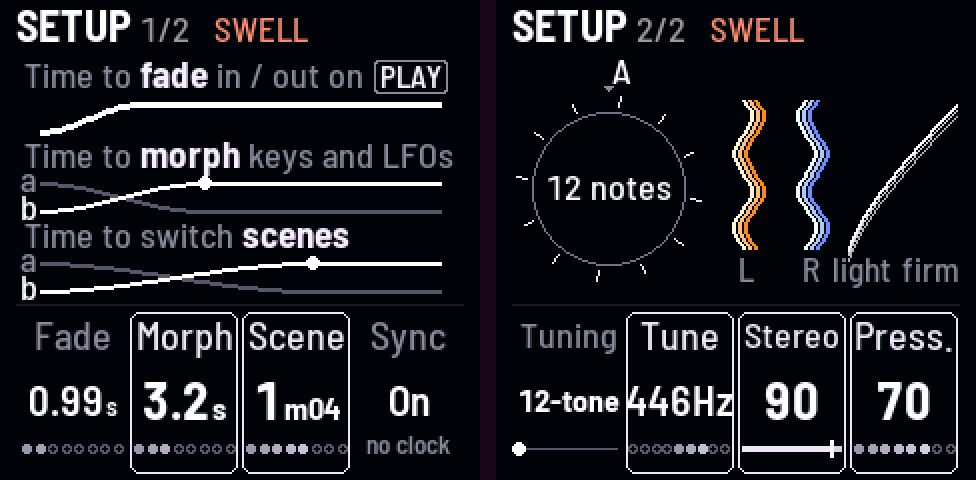
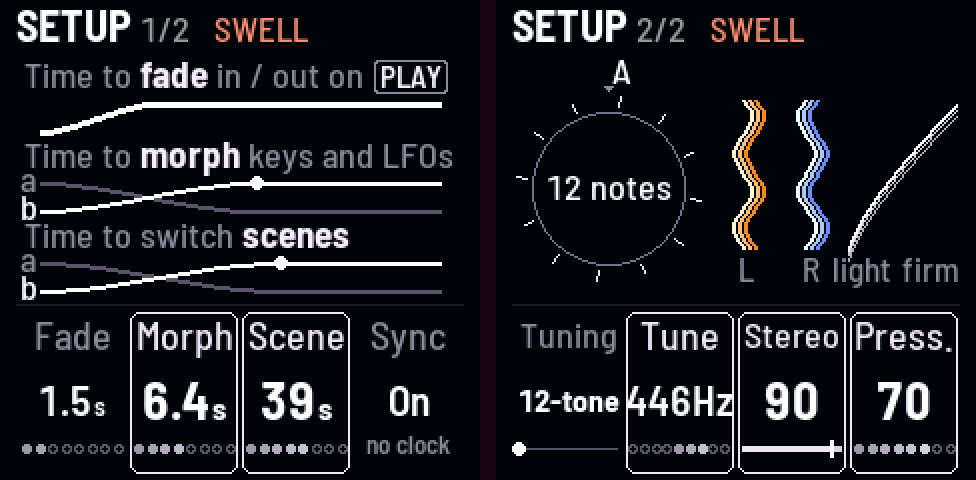
The defaults review (Evan): a new FM-1's Fade 1.5 s, Morph 2 s, Scene time 7.8 s; Pitch glide 0.2 s so Wander's notes slide a little; the flash chip check in its own header with a host test, the newer FM-1s' UC25HQ80 (B36014) and the first ones' Puya (856014)

diff --git a/firmware/src/dsp/drone.c b/firmware/src/dsp/drone.c
@@ -42,13 +42,13 @@ static const dr_param_t PARAMS[DR_NPARAMS] = {
     VOICE_PARAMS(5700, 33, DR_IV_UNISON + 9, 15, 680, 61, DR_LFO_II, DR_LFO_II, -85),  /* II: A3, triangle, partner an octave up */
     {"Cross-mod", 0, DR_XMOD_OUT, 0}, {"X-mod amt", 0, 100, 40}, {"Hard sync", 0, 1, 0}, {"Pitch link", 0, 1, 0},
     {"Link ofs", -2400, 2400, 700}, {"LFO rate", 0, 152, 74}, {"Wave I", 0, DR_LFO_NSHAPES - 1, 1},
-    {"Wave II", 0, DR_LFO_NSHAPES - 1, 8}, {"Pitch glide", 0, 100, 0}, {"Fade", 0, 100, 25}, {"Drift", 0, 100, 30},
+    {"Wave II", 0, DR_LFO_NSHAPES - 1, 8}, {"Pitch glide", 0, 100, 14}, {"Fade", 0, 100, 29}, {"Drift", 0, 100, 30},
     {"Stereo", 0, 100, 60}, {"Tune", -130, 130, 0},
     {"Pulse", 0, 1, 1}, {"Rate", 0, 100, 6}, {"Depth", 0, 100, 40}, {"Shape", -100, 100, -25}, {"Swing", 0, 50, 0},
     {"Time", 0, DR_DLY_TMAX, 50}, {"Repeats", 0, 100, 50}, {"Dly mix", 0, 100, 25}, {"Rev mix", 0, 100, 35},
     {"Type", 0, DR_NREV - 1, 2}, {"Dly LFO", DR_LFO_I, DR_LFO_BOTH, DR_LFO_I}, {"Delay mod", -100, 100, 20},
     {"LFO lock", 0, 1, 0}, {"Speed mod", -100, 100, 0}, {"Source", DR_LFO_I, DR_LFO_BOTH, DR_LFO_II},
-    {"Morph", 0, 100, 21}, {"Scene time", 0, 100, 48}, {"II out", 0, 1, 0}, {"Speaker", 0, 100, 0},
+    {"Morph", 0, 100, 34}, {"Scene time", 0, 100, 40}, {"II out", 0, 1, 0}, {"Speaker", 0, 100, 0},
     {"Pitch lock", 0, 1, 1}, {"Movement", 0, 100, 50}, {"Feedback", 0, 100, 0}, {"Character", 0, 100, 0},
     {"Wander", 0, 100, 0}, {"Age", 0, 100, 0}, {"Shift move", 0, 2 * DR_SHIFT_MID, 2 * DR_SHIFT_MID}, {"Scale", 0, DR_NWSCALE - 1, 0},
     {"D5 depth", 0, 100, 70}, {"E5 depth", 0, 100, 100}, {"F5 depth", 0, 100, 100}, {"G5 depth", 0, 100, 70},

diff --git a/tests/host/flash_id_test.c b/tests/host/flash_id_test.c
@@ -1,0 +1,23 @@
+/* SPDX-License-Identifier: GPL-3.0-only */
+/* The flash parts Niagara Drift saves to and installs on (fl_id_ok, firmware/hal/fm1_flash.h): any standard SPI NOR of
+ * 1 to 16 MiB. The first FM-1s carry a Puya P25Q80 (JEDEC 85 60 14); FM-1s sold since autumn 2026 a UC25HQ80
+ * (B3 60 14), the same plain commands (fm1-base's device/fm1_flash_ok.h, Laurens, #35; thefirmwarehub.com lists the
+ * firmwares that take it). Nothing answering (00 / FF) or a part under 1 MiB: RAM only, nothing written. */
+#include <stdio.h>
+#include "fm1_flash_id.h"
+static int fails;
+static void check(const char *what, int ok)
+{
+    printf("%-60s %s\n", what, ok ? "ok" : "FAIL");
+    fails += !ok;
+}
+int main(void)
+{
+    check("the Puya P25Q80 (856014), the first FM-1s", fl_id_ok(0x856014u));
+    check("the UC25HQ80 (B36014), the newer FM-1s", fl_id_ok(0xB36014u));
+    check("another standard 2-16 MiB part (EF4015, C84018)", fl_id_ok(0xEF4015u) && fl_id_ok(0xC84018u));
+    check("nothing answering (000000, FFFFFF): refused", !fl_id_ok(0u) && !fl_id_ok(0xFFFFFFu));
+    check("under 1 MiB or over 16 MiB (856013, EF4019): refused", !fl_id_ok(0x856013u) && !fl_id_ok(0xEF4019u));
+    printf("flash_id: %s\n", fails ? "FAILED" : "all ok");
+    return fails != 0;
+}

diff --git a/firmware/hal/fm1_flash.h b/firmware/hal/fm1_flash.h
@@ -12,6 +12,7 @@
 #pragma once
 #include <stdint.h>
 #include "fm1_xip.h"
+#include "fm1_flash_id.h"
 
 #define RAMFN  __attribute__((section(".ram_text"), noinline, used))
 #define RAMINL static inline __attribute__((always_inline))
@@ -143,14 +144,7 @@ RAMINL int fl_wait_ready(uint32_t max_us, uint32_t *took_us)
 
 /* ---- entry points: IRQs OFF, args/buffers in RAM ---- */
 
-/* a JEDEC id that is a standard SPI NOR of 1 to 16 MiB: the first FM-1s carry 0x856014 (Puya, 1 MiB); a newer
- * run may carry another part (issue #66). Every such part takes the commands used here (06 05 20 02 0B), and the
- * update loader writes and checks the whole app with them on whatever part is there. */
-static inline int fl_id_ok(uint32_t id)
-{
-    uint32_t maker = id >> 16, size = id & 0xFFu;
-    return maker != 0u && maker != 0xFFu && size >= 0x14u && size <= 0x18u;
-}
+/* fl_id_ok(): which flash parts the storage and the updater take (fm1_flash_id.h, tested on the host) */
 
 static RAMFN uint32_t fl_jedec_ram(void)                 /* 0x856014 on the first FM-1s: fl_id_ok() */
 {

diff --git a/firmware/hal/fm1_flash_id.h b/firmware/hal/fm1_flash_id.h
@@ -1,0 +1,14 @@
+/* SPDX-License-Identifier: GPL-3.0-only */
+/* Which flash parts Niagara Drift saves to and installs on: a JEDEC id that is a standard SPI NOR of 1 to 16 MiB. The
+ * first FM-1s carry 0x856014 (Puya P25Q80, 1 MiB); FM-1s sold since autumn 2026 a UC25HQ80, 0xB36014 (1 MiB; issue
+ * #66, fm1-base's device/fm1_flash_ok.h). Every such part takes the commands fm1_flash.h uses (06 05 20 02 0B), and
+ * the update loader writes and checks the whole app with them on whatever part is there. Nothing answering (00 / FF)
+ * or another size: RAM only, nothing written. Pure, so tests/host/flash_id_test.c checks it on the host. */
+#pragma once
+#include <stdint.h>
+
+static inline int fl_id_ok(uint32_t id)
+{
+    uint32_t maker = id >> 16, size = id & 0xFFu;
+    return maker != 0u && maker != 0xFFu && size >= 0x14u && size <= 0x18u;
+}

diff --git a/host/omni_host.c b/host/omni_host.c
@@ -659,7 +659,8 @@ int main(int argc, char **argv)
             static const int16_t OLD[][2] = {{DR_GP(0, GP_FLFO_DEPTH), 25}, {DR_GP(1, GP_FLFO_DEPTH), -25},
                 {DR_GP(0, GP_RESO), 350}, {DR_GP(1, GP_RESO), 350}, {P_LFO_RATE, 98}, {P_LFO_W2, 1},
                 {P_DLY_REPEATS, 35}, {P_DLY_MIX, 0}, {P_REV_MIX, 25}, {P_DLY_LFO_DEPTH, 0}, {P_PULSE, 0},
-                {P_PULSE_RATE, 45}, {P_PULSE_DEPTH, 48}};
+                {P_PULSE_RATE, 45}, {P_PULSE_DEPTH, 48},
+                {P_GLIDE, 0}, {P_FADE, 25}, {P_MORPH, 21}, {P_SCENE_T, 48}};   /* the times before 2026-11-07 */
             uint32_t i;
             for (i = 0; i < sizeof OLD / sizeof OLD[0]; i++) {  /* only these (the engine's queue holds 64) */
                 proj.par[OLD[i][0]] = OLD[i][1];

diff --git a/tests/host/drone_test.c b/tests/host/drone_test.c
@@ -39,6 +39,9 @@ static void classic(void)
     dr_set(P_PULSE, 0);
     dr_set(P_PULSE_RATE, 45);
     dr_set(P_PULSE_DEPTH, 48);
+    dr_set(P_GLIDE, 0);                             /* the times these checks were made with (the defaults since */
+    dr_set(P_FADE, 25);                             /* 2026-11-07: a little glide, a 1.5 s fade, 7.8 s scenes; the */
+    dr_set(P_SCENE_T, 48);                          /* Morph's checks set their own) */
 }
 static void dry_init(void)
 {

diff --git a/README.md b/README.md
@@ -100,7 +100,9 @@ still works. Installing firmware is at your own risk.
   firmware can get in the way of, and [M-Flasher](https://github.com/jvitkauskas/m-flasher) (Windows, Mac, Linux)
   puts M-VAVE's firmware back from there. If an FM-1 won't start at all, see [BUILDING.md](BUILDING.md#install).
 - Up to 0.2, Niagara Drift didn't recognize the memory chip of some newer FM-1s: on those it couldn't save, and it
-  ignored installs (it just started again). On such an FM-1 running 0.2, use the step above to leave it.
+  ignored installs (it just started again). On such an FM-1 running 0.2, use the step above to leave it. Since
+  0.2.1 it takes any standard memory chip, the newer FM-1s' (a UC25HQ80, chip ID B36014) as well as the first ones'
+  (a Puya P25Q80, 856014).
 
 ## Playing it
 
@@ -338,8 +340,8 @@ pink specks are as many as Color says.
   drone I (in any octave, up to an octave from its own pitch), and only now and then comes home. The knob is **how
   often**, at random times within a range: 25–30 s apart at the bottom, 0.5–2 s at the top; the screen shows the
   range. It doesn't glide by itself: **Pitch glide** slides it. At 0 it's off.
-- **Pitch glide** is how long a drone takes to reach a new pitch (up to 10 s; off by default): a pitch knob, a scene,
-  Wander's notes.
+- **Pitch glide** is how long a drone takes to reach a new pitch (up to 10 s; 0.2 s to start, so Wander's notes slide
+  a little): a pitch knob, a scene, Wander's notes.
 - **Wander's scale**: minor pentatonic, major pentatonic, fifths and octaves, whole tone, Dorian, or just (the
   harmonics 1–8 of drone I, pure: the root, the pure major third, fifth and the seventh harmonic). Its notes take the
   Tuning's (Setup 2): see Tuning.
@@ -467,9 +469,10 @@ pink specks are as many as Color says.
 Everything on GLO belongs to the FM-1 and the room, not to a sound: scenes don't change it.
 
 - Each knob gives most of its turn to slow times, a second about a quarter of the way.
-- **Fade** is how long PLAY takes (up to 60 s); **Morph** is how long a black key or a new LFO wave (OCT) takes
-  to move the sound to its new setting (0.02–30 s); **Scene time** is how long every scene move takes: a tap, a
-  crossfade pressed all the way in at once, and the way back (0.1 s to 5 minutes; about 15 s to start). The picture
+- **Fade** is how long PLAY takes (up to 60 s; 1.5 s to start); **Morph** is how long a black key or a new LFO
+  wave (OCT) takes to move the sound to its new setting (0.02–30 s; 2 s to start); **Scene time** is how long every
+  scene move takes: a tap, a crossfade pressed all the way in at once, and the way back (0.1 s to 5 minutes; about
+  8 s to start). These are the FM-1's own settings, not a sound's: an FM-1 already set keeps its own. The picture
   is a row for each, its knob's whole range across it: the fade a line up from silence, Morph and the scenes a
   crossfade (a out, b in), each change ending where its knob is (a dot there while you turn it).
 - **Sync** (KNOB 4): **On** follows a MIDI clock (see MIDI below), **Off** ignores it, so the Swell, the LFO, the

diff --git a/docs/decisions.md b/docs/decisions.md
@@ -54,6 +54,11 @@ at the end. The current state is in the [README](../README.md) and the code.
 - 2026-10-07: the Ultra LFO: one rate, two taps (Wave I, Wave II) of Off + 7 shapes + random, routed per drone
   to pitch or X-WAVE and to cutoff or resonance, with bipolar depths. 2026-10-14: rate 0.02 Hz (a cycle in 50 s,
   the DS-2's slowest) .. 70 Hz; longer arcs come from Scene switch and the motion loop.
+- 2026-11-07: the defaults review (Evan, item 9): the FM-1's own times for a new FM-1, Fade 1.5 s (29, was 0.99 s),
+  Morph 2.0 s (34, was 0.63 s), Scene time 7.8 s (40, was 16 s: a player pressing a scene key also sees how far in it
+  is); and the sound's Pitch glide 0.2 s (14, was off), so Wander's notes slide a little (every Preset that leaves it
+  alone too). Everything else kept. The flash chips: fl_id_ok() (any standard SPI NOR of 1-16 MiB, since 0.2.1) in its
+  own header with a host test: the Puya P25Q80 (856014) and the newer FM-1s' UC25HQ80 (B36014) both.
 - 2026-11-07: Partner and Shift follow the Tuning (ledger item 8), as Wander and Chord since #63: on a Tuning other
   than 12-tone and Quarter a partner's interval is the Tuning's over its drone, from the interval's pure size
   ("+5th" and "+5th just" the same; the value shows the name alone); Shift's knob steps from note to note of the
